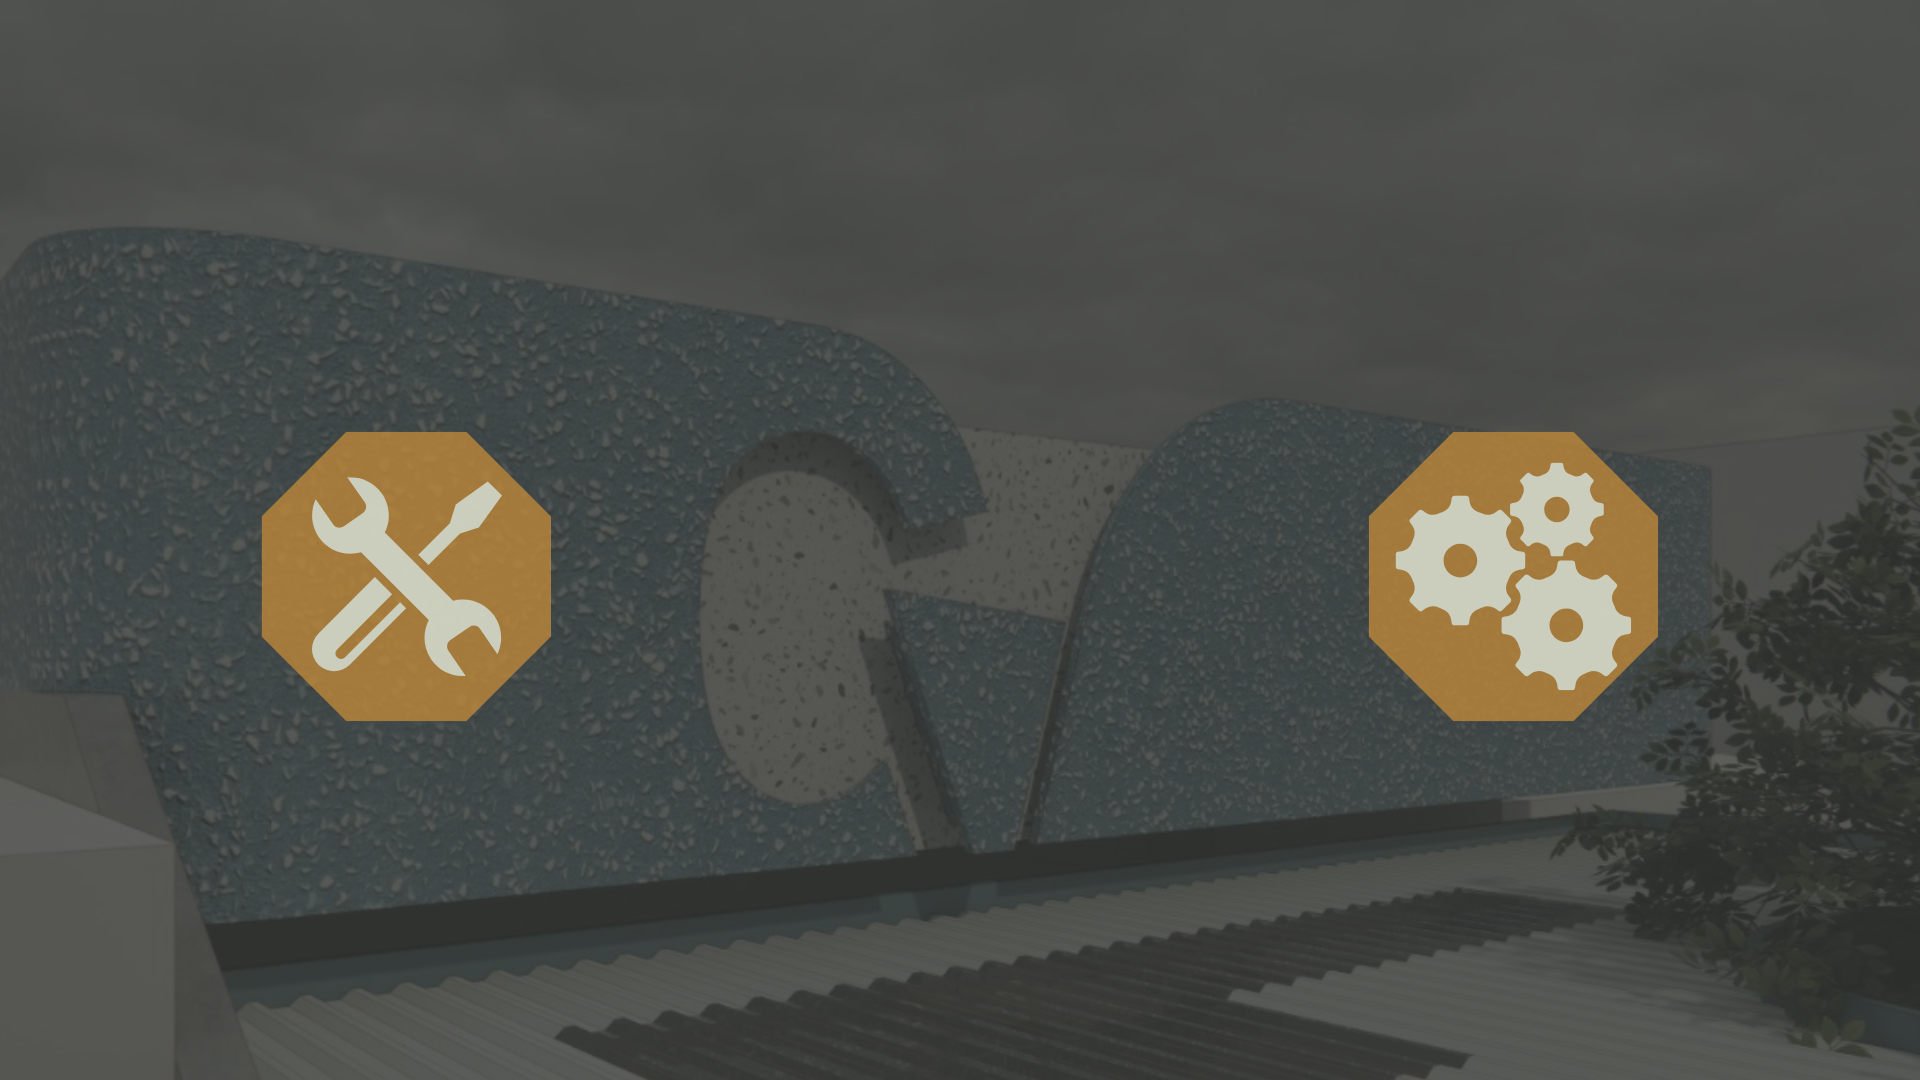
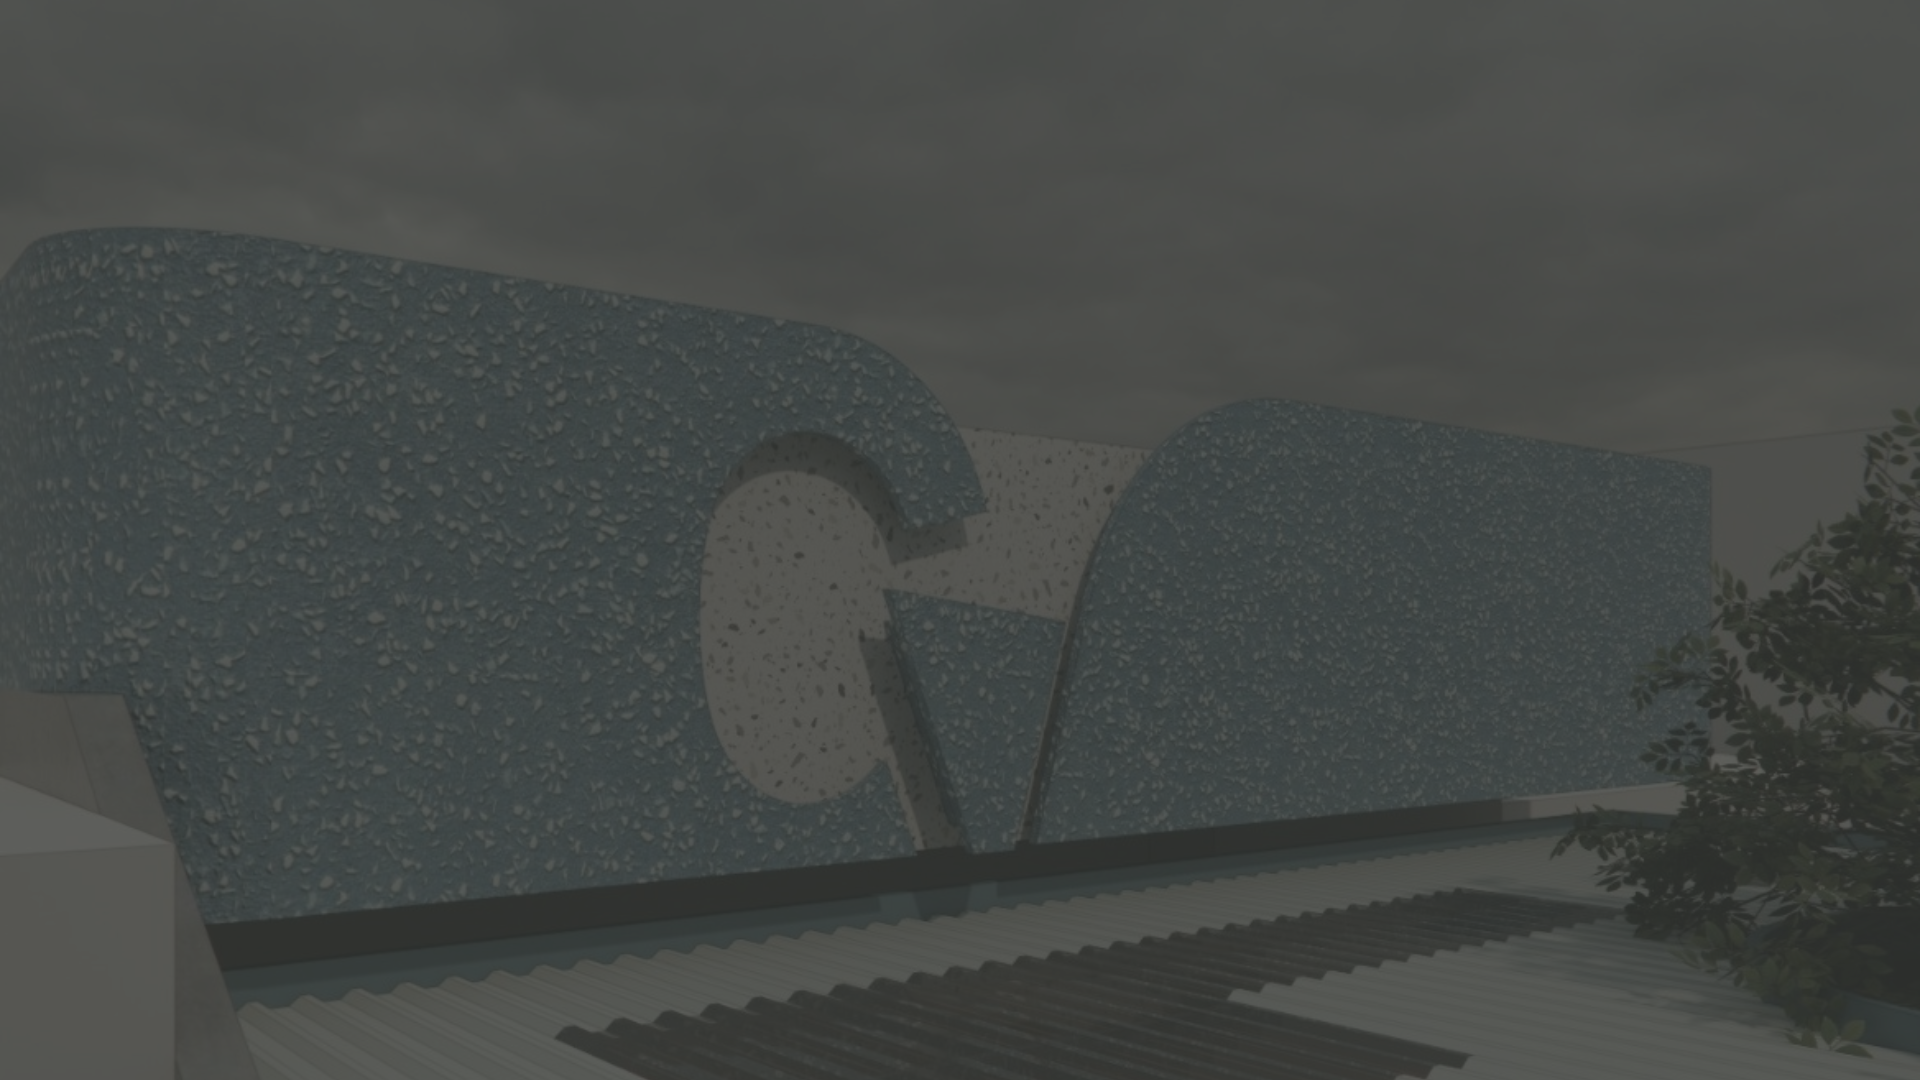
Minor Update

Changed region(s): [[0.6875, 0.3972, 0.875, 0.6722], [0.125, 0.3972, 0.3125, 0.6722]]

diff --git a/public/assets/css/style.css b/public/assets/css/style.css
@@ -152,13 +152,11 @@
 .slider-one_pattern{
 	position: absolute;
 	left: 0px;
-	top: 0px;
+	top: -110px;
 	right: 0px;
 	bottom: 0px;
-	z-index: 1;
 	background-position: center;
     background-size: cover;
-    background-repeat: no-repeat;
 }
 
 .slider-one_pattern-two{
@@ -563,7 +561,7 @@
 .services-one{
 	position: relative;
 	z-index: 1;
-	padding: 60px 0px 70px;
+	padding: 30px 0px 10px;
 }
 
 .services-one.style-two{
@@ -572,8 +570,8 @@
 
 .service-block_one{
 	position: relative;
-    margin-top: 30px;
-	margin-bottom: 30px;
+    margin-top: 10px;
+	margin-bottom: 10px;
 }
 
 .services-one .sec-title_heading{
@@ -777,7 +775,7 @@
 
 .about-one{
 	position: relative;
-	padding: 100px 0px 70px;
+	padding: 10px 0px 10px;
 }
 
 .about-one .sec-title_title{
@@ -823,7 +821,7 @@
 .about-one_pattern{
 	position: absolute;
 	right: 0px;
-	top: -250px;
+	top: -350px;
 	width: 709px;
 	height: 1152px;
     margin-right: -150px;
@@ -1465,8 +1463,8 @@
 
 .steps-one{
 	position: relative;
-	z-index: 2;
-	padding: 110px 0px 70px;
+	z-index: 4;
+	padding: 30px 0px 70px;
 }
 
 .steps-one .sec-title_title {
@@ -1477,7 +1475,8 @@
 .steps-one .sec-title_heading{
 	color: #ffffff;
     font-family: 'Graphie';
-    font-size: 45px;
+    font-size: 40px;
+    height: 100px;
 }
 
 .steps-one_bg{
@@ -1488,6 +1487,7 @@
 	bottom: 0px;
 	background-position: center center;
 	background-repeat: no-repeat;
+    height: 670px;
 }
 
 .steps-one_icon{
@@ -1542,7 +1542,7 @@
 }
 
 .steps-one .column:nth-child(2n + 0){
-	margin-top: -330px;
+	margin-top: 0px;
 }
 
 .steps-one_button{
@@ -1576,7 +1576,7 @@
 	position: relative;
 	font-size: 22px;
 	font-weight: 600;
-	margin-top: 22px;
+	margin-top: 2px;
 	color: var(--white-color);
     font-family: 'Graphie';
 }
@@ -1585,22 +1585,22 @@
 	position: relative;
 	font-size: 17px;
 	line-height: 27px;
-	margin-top: 15px;
+	margin-top: 2px;
 	color: #ffffff;
     font-family: 'Graphie';
 }
 
 .step-block_one-content{
 	position: relative;
-	margin-top: 35px;
+	margin-top: 2px;
 }
 
 .step-block_one-content img{
 	position: relative;
-	margin-top: 35px;
+	margin-top: 2px;
     width: fit-content;
     object-fit: cover;
-    height: 400px;
+    height: 180px;
     width: 100%;
 }
 
@@ -1653,7 +1653,7 @@
 .price-one .inner-container{
 	position: relative;
 	border-radius: 10px;
-	padding: 100px 120px 100px;
+	padding: 20px 30px 20px;
 	background-position: center center;
 	background-repeat: no-repeat;
 	background-color: var(--color-seven);
@@ -1753,7 +1753,7 @@
 
 .price-block_one{
 	position: relative;
-	margin-bottom: 30px;
+	margin-bottom: 10px;
 	transition:all 900ms ease;
 	-moz-transition:all 900ms ease;
 	-webkit-transition:all 900ms ease;
@@ -1764,7 +1764,7 @@
 .price-block_one-inner{
 	position: relative;
 	border-radius: 8px;
-	padding: 35px 35px 40px;
+	padding: 15px 15px 20px;
 	transition:all 500ms ease;
 	-moz-transition:all 500ms ease;
 	-webkit-transition:all 500ms ease;
@@ -1876,8 +1876,8 @@
 
 .price-block_one-content{
 	position: relative;
-	padding-top: 25px;
-	margin-top: 24px;
+	padding-top: 10px;
+	margin-top: 10px;
 	border-top: 1px solid rgba(var(--white-color-rgb), 0.06);
 }
 
@@ -1927,7 +1927,7 @@
 
 .price-block_one-button{
 	position: relative;
-	margin-top: 35px;
+	margin-top: 10px;
 }
 
 .price-one_button{
@@ -5293,7 +5293,7 @@
 	position:relative;
 	text-align:center;
 	margin-top: 110px;
-	padding:135px 0px 135px;
+	padding:30px 0px 30px;
 }
 
 .page-title-icon{
@@ -5413,7 +5413,7 @@
 
 .story-one{
 	position: relative;
-	padding: 100px 0px 70px;
+	padding: 20px 0px 20px;
 }
 
 .story-one .sec-title_title{
@@ -5494,7 +5494,7 @@
 
 .value-one{
 	position: relative;
-	padding: 100px 0px 100px;
+	padding: 30px 0px 0px;
 	background-color: var(--color-nine);
 }
 
@@ -5506,10 +5506,10 @@
 .value-block_one-inner{
 	position: relative;
 	text-align: center;
-	padding: 50px 40px;
+	padding: 10px 30px;
 	border-radius: 8px;
 	background-color: var(--color-eight);
-    height: 14cm;
+    height: 11cm;
 }
 
 .value-block_one-icon{
@@ -5646,7 +5646,7 @@
 
 .team-block_one-content{
 	position: relative;
-	padding-top: 25px;
+	padding-top: 5px;
 }
 
 .team-block_one-title{
@@ -6384,7 +6384,7 @@
 
 .sidebar-page-container{
 	position:relative;
-	padding:100px 0px 70px;
+	padding:50px 0px 100px;
 	background-color: #393c39;
 }
 
@@ -7275,7 +7275,7 @@
 
 .team-two{
 	position: relative;
-	padding: 100px 0px 70px;
+	padding: 20px 0px 70px;
 	background-color: #393c39;
 }
 
@@ -7675,7 +7675,7 @@
 
 .contact-info{
 	position: relative;
-	padding: 100px 0px 70px;
+	padding: 30px 0px 70px;
 	background-color: #393c39;
 	border-bottom: 1px solid rgba(var(--white-color-rgb), 0.06);
 }

diff --git a/public/assets/css/footer.css b/public/assets/css/footer.css
@@ -42,7 +42,7 @@
 
 .footer-newsletter{
 	position: relative;
-	padding: 34px 35px;
+	padding: 15px 12px;
 	border-radius: 8px;
 	background-color: var(--color-seven);
 	border: 1px solid rgba(var(--white-color-rgb), 0.07);

diff --git a/public/assets/css/global.css b/public/assets/css/global.css
@@ -862,7 +862,7 @@ img{
 .sec-title{
 	position:relative;
     z-index: 2;
-	margin-bottom:40px;
+	margin-bottom:10px;
 }
 
 .sec-title_icon{

diff --git a/resources/views/service.blade.php b/resources/views/service.blade.php
@@ -19,23 +19,17 @@
     <!-- End Page Title -->
 
     <section class="steps-one">
-        <div class="steps-one_bg" style="background-image:url(assets/images/gallery/gradient_circle_large.png)"></div>
+        {{-- <div class="steps-one_bg" style="background-image:url(assets/images/gallery/gradient_circle_large.png)"></div> --}}
         <div class="auto-container">
             <div class="inner-container">
-                <div class="circle-layer"></div>
-                <div class="dots-layer">
-                    <span class="dot-one"></span>
-                    <span class="dot-two"></span>
-                </div>
 
                 <!-- Sec Title -->
                 <div class="sec-title">
-                    <div class="sec-title_title">Our Services</div>
                     <h2 class="sec-title_heading">Kami Memberikan<br>Pelayanan Terbaik</span><br><br><br></h2>
                 </div>
                 <div class="row clearfix">
                     <!-- Column -->
-                    <div class="column col-lg-6 col-md-12 col-sm-12">
+                    <div class="column col-lg-4 col-md-12 col-sm-12">
                         <!-- Step Block One -->
                         <div class="step-block_one">
                             <div class="step-block_one-inner">
@@ -50,15 +44,14 @@
                             </div>
                         </div>
                     </div>
-                    <!-- Column -->
-                    <div class="column col-lg-6 col-md-12 col-sm-12">
 
+                    <div class="column col-lg-4 col-md-12 col-sm-12">
                         <!-- Step Block One -->
                         <div class="step-block_one">
                             <div class="step-block_one-inner">
                                 <div class="step-block_one-steps">01</div>
                                 <h5 class="step-block_one-title">Jasa Service</h5>
-                                <div class="step-block_one-text">Melayani jasa service dengan teknisi berpengalaman <br>Authorize Service Center</div>
+                                <div class="step-block_one-text">Melayani jasa service dengan teknisi berpengalaman</div>
                                 <div class="step-block_one-content">
                                     <div class="image">
                                         <img src="assets/images/gallery/servis.png" alt="" height="200" width="300"/>
@@ -66,7 +59,9 @@
                                 </div>
                             </div>
                         </div>
+                    </div>
 
+                    <div class="column col-lg-4 col-md-12 col-sm-12">
                         <!-- Step Block One -->
                         <div class="step-block_one">
                             <div class="step-block_one-inner">
@@ -80,7 +75,6 @@
                                 </div>
                             </div>
                         </div>
-
                     </div>
                 </div>
             </div>

diff --git a/resources/views/portofolio.blade.php b/resources/views/portofolio.blade.php
@@ -13,14 +13,6 @@
     </div>
 </section>
 
-<div class="auto-container">
-    <div class="inner-container">
-        <div class="row clearfix">
-            <br><br>
-        </div>
-    </div>
-</div>
-
 <section>
     <div class="sidebar-page-container">
         <div class="auto-container">
@@ -110,7 +102,7 @@
 <div class="auto-container">
     <div class="inner-container">
         <div class="row clearfix">
-            <br><br><br><br><br>
+            <br><br><br><br><br><br>
         </div>
     </div>
 </div>

diff --git a/resources/views/news.blade.php b/resources/views/news.blade.php
@@ -13,14 +13,6 @@
     </div>
 </section>
 
-<div class="auto-container">
-    <div class="inner-container">
-        <div class="row clearfix">
-            <br><br>
-        </div>
-    </div>
-</div>
-
 <div class="sidebar-page-container">
     <div class="auto-container">
         <div class="row clearfix">

diff --git a/resources/views/product.blade.php b/resources/views/product.blade.php
@@ -82,7 +82,7 @@
                 @endif
 
                 <div class="col-lg-12 col-md-12 col-sm-12">
-                    <br><br><br><br><br>
+                    <br><br><br>
                 </div>
 
 			</div>
